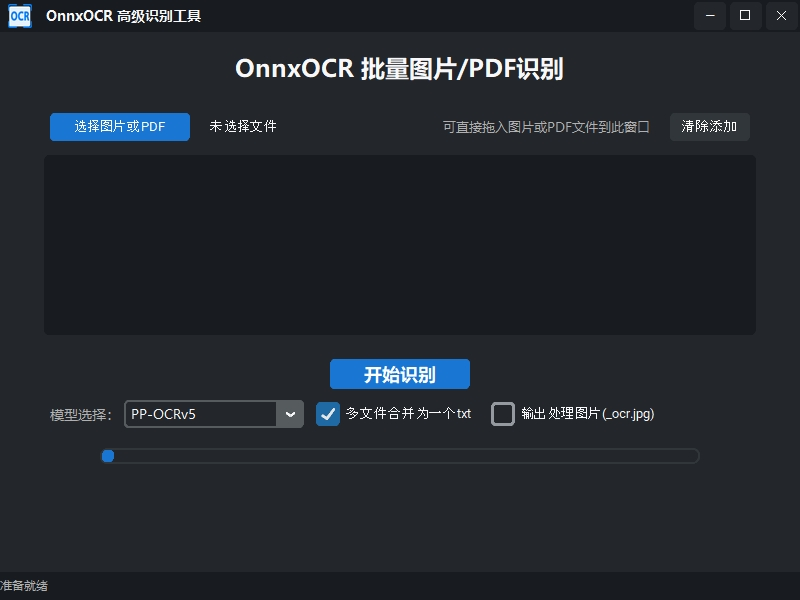
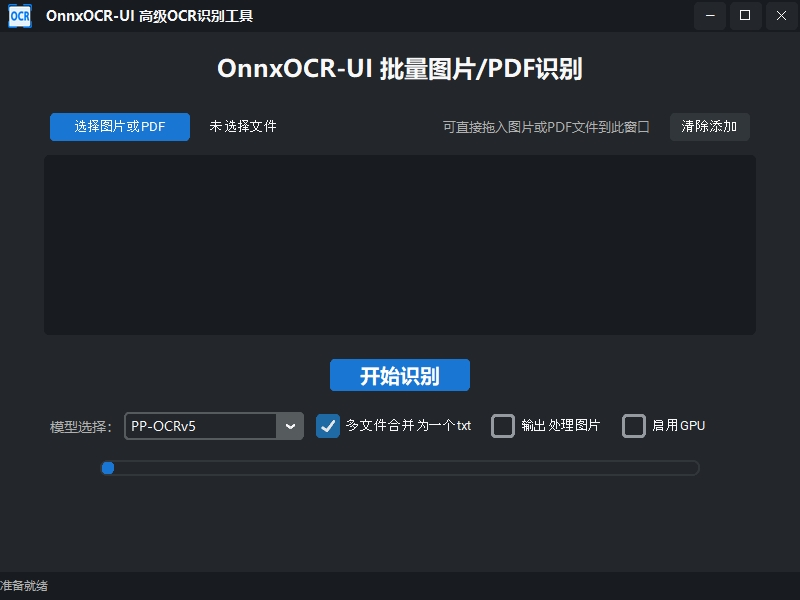
v0.2.0 优化OCR速度

diff --git a/onnxocr_ui/ui.py b/onnxocr_ui/ui.py
@@ -115,8 +115,8 @@ class OCRApp:
         self.file_listbox.configure(state="disabled")
 
         # 识别按钮（选项上方）
-        self.ocr_btn = ctk.CTkButton(self.root, text="开始识别", command=self.start_ocr, fg_color="#1976d2", hover_color="#1565c0", font=("微软雅黑", 18, "bold"), text_color="#fff")
-        self.ocr_btn.pack(pady=(20, 10))
+        self.ocr_btn = ctk.CTkButton(self.root, text="开始识别", command=self.start_ocr, fg_color="#1976d2", hover_color="#1565c0", font=("微软雅黑", 20, "bold"), text_color="#fff")
+        self.ocr_btn.pack(pady=(20, 20))
 
         # 选项（识别按钮上方）
         self.options_frame = ctk.CTkFrame(self.root, fg_color="#23272b", corner_radius=8)
@@ -132,13 +132,17 @@ class OCRApp:
         self.merge_txt_cb = ctk.CTkCheckBox(self.options_frame, text="多文件合并为一个txt", variable=self.merge_txt_var, text_color="#f8f8fa", bg_color="#23272b")
         self.merge_txt_cb.pack(side="left", padx=10)
         self.output_img_var = tk.BooleanVar(value=False)
-        self.output_img_cb = ctk.CTkCheckBox(self.options_frame, text="输出处理图片(_ocr.jpg)", variable=self.output_img_var, text_color="#f8f8fa", bg_color="#23272b")
+        self.output_img_cb = ctk.CTkCheckBox(self.options_frame, text="输出处理图片", variable=self.output_img_var, text_color="#f8f8fa", bg_color="#23272b")
         self.output_img_cb.pack(side="left", padx=10)
+        # 启用GPU选项，放到输出处理图片右侧
+        self.gpu_var = tk.BooleanVar(value=False)
+        self.gpu_cb = ctk.CTkCheckBox(self.options_frame, text="启用GPU", variable=self.gpu_var, text_color="#f8f8fa", bg_color="#23272b")
+        self.gpu_cb.pack(side="left", padx=10)
 
         # 进度条（选项栏下方）
         self.progress_var = tk.DoubleVar(value=0)
         self.progress_bar = ctk.CTkProgressBar(self.root, variable=self.progress_var, width=600, height=16, fg_color="#23272b", progress_color="#1976d2", border_color="#31363b", border_width=2)
-        self.progress_bar.pack(pady=(0, 10))
+        self.progress_bar.pack(pady=(0, 20))
         self.progress_bar.set(0)
 
         # 状态栏（始终最底部，单独用pack(side='bottom')，不要被其他控件挤上去）
@@ -193,26 +197,23 @@ class OCRApp:
         self.progress_var.set(0)  # 进度条重置为0
         model_name = self.model_var.get()
         output_img = self.output_img_var.get()
-        threading.Thread(target=self._run_ocr, args=(model_name, output_img), daemon=True).start()
+        use_gpu = self.gpu_var.get()  # 新增
+        threading.Thread(target=self._run_ocr, args=(model_name, output_img, use_gpu), daemon=True).start()
 
-    def _run_ocr(self, model_name, output_img):
+    def _run_ocr(self, model_name, output_img, use_gpu):
         def file_time_callback(idx, seconds):
             self.update_file_process_time(idx, seconds)
         def pdf_progress_callback(done, total):
             if self.selected_files:
-                # 只处理当前PDF，进度条按总任务+PDF页数分配
                 pdf_idx = self.selected_files.index(self.current_pdf) if hasattr(self, 'current_pdf') else 0
                 total_files = len(self.selected_files)
-                # PDF页数进度占当前文件的进度区间
                 base = pdf_idx / total_files
                 step = 1 / total_files
                 self.progress_var.set(base + step * (done / total))
         try:
-            self.logic.set_model(model_name)
-            # 传递pdf_progress_callback
+            self.logic.set_model(model_name, use_gpu=use_gpu)  # 修正：传递use_gpu参数
             def run_with_pdf_progress(*args, **kwargs):
                 return self.logic.run(*args, pdf_progress_callback=pdf_progress_callback, **kwargs)
-            # 标记当前处理PDF
             for f in self.selected_files:
                 if f.lower().endswith('.pdf'):
                     self.current_pdf = f

diff --git a/onnxocr_ui/logic.py b/onnxocr_ui/logic.py
@@ -209,11 +209,13 @@ class OCRLogic:
         os.makedirs(out_dir, exist_ok=True)
         return out_dir
 
-    def set_model(self, model_name):
+    def set_model(self, model_name, use_gpu=False):
         """
         切换OCR模型，支持多模型热切换，所有模型统一用ppocrv5字典
+        use_gpu: 是否启用GPU
         """
         import os
+        import tkinter.messagebox as messagebox
         base_model_dir = os.path.abspath(os.path.join(os.path.dirname(__file__), "..", "onnxocr", "models"))
         model_map = {
             "PP-OCRv5": "ppocrv5",
@@ -224,16 +226,39 @@ class OCRLogic:
         model_path = os.path.join(base_model_dir, model_dir)
         det_model_dir = os.path.join(model_path, "det", "det.onnx")
         cls_model_dir = os.path.join(model_path, "cls", "cls.onnx")
-        # 所有模型统一使用ppocrv5/ppocrv5_dict.txt
         rec_char_dict_path = os.path.join(base_model_dir, "ppocrv5", "ppocrv5_dict.txt")
         rec_model_dir = os.path.join(model_path, "rec", "rec.onnx") if os.path.exists(os.path.join(model_path, "rec", "rec.onnx")) else None
         ocr_kwargs = dict(
             use_angle_cls=True,
-            use_gpu=False,
+            use_gpu=use_gpu,  # 关键：传递GPU参数
             det_model_dir=det_model_dir,
             cls_model_dir=cls_model_dir,
             rec_char_dict_path=rec_char_dict_path
         )
         if rec_model_dir and os.path.exists(rec_model_dir):
             ocr_kwargs["rec_model_dir"] = rec_model_dir
-        self.model = ONNXPaddleOcr(**ocr_kwargs)
+        try:
+            self.model = ONNXPaddleOcr(**ocr_kwargs)
+            if use_gpu:
+                try:
+                    import onnxruntime as ort
+                    providers = self.model.session.get_providers() if hasattr(self.model, 'session') else []
+                    if not any('CUDA' in p for p in providers):
+                        msg = ("未检测到可用GPU，已自动切换为CPU推理。\n如需使用GPU，请确保已正确安装CUDA和cuDNN，并将其加入PATH环境变量。\n详细要求请参考：https://onnxruntime.ai/docs/execution-providers/CUDA-ExecutionProvider.html#requirements")
+                        messagebox.showwarning("未检测到可用GPU", msg)
+                        if hasattr(self, 'status_callback'):
+                            self.status_callback("[警告] 未检测到可用GPU，已切换为CPU推理。请检查CUDA/cuDNN环境配置。")
+                except Exception:
+                    msg = ("检测GPU状态时发生异常，可能未正确安装CUDA/cuDNN或onnxruntime-gpu。\n已自动切换为CPU推理。\n请参考：https://onnxruntime.ai/docs/execution-providers/CUDA-ExecutionProvider.html#requirements")
+                    messagebox.showwarning("GPU检测失败", msg)
+                    if hasattr(self, 'status_callback'):
+                        self.status_callback("[警告] GPU检测异常，已切换为CPU推理。请检查CUDA/cuDNN环境配置。")
+        except Exception as e:
+            if use_gpu:
+                messagebox.showwarning("GPU初始化失败", f"GPU初始化失败，已自动切换为CPU。\n如需使用GPU，请确保已正确安装CUDA和cuDNN。\n错误信息: {e}")
+                if hasattr(self, 'status_callback'):
+                    self.status_callback("[警告] GPU初始化失败，已切换为CPU推理。请检查CUDA/cuDNN环境配置。")
+                ocr_kwargs["use_gpu"] = False
+                self.model = ONNXPaddleOcr(**ocr_kwargs)
+            else:
+                raise

diff --git a/app-service.py b/app-service.py
@@ -1,0 +1,73 @@
+import cv2
+import time
+import base64
+import numpy as np
+from flask import Flask, request, jsonify
+from onnxocr.onnx_paddleocr import ONNXPaddleOcr, sav2Img
+
+# 初始化 Flask 应用
+app = Flask(__name__)
+
+# 初始化 OCR 模型
+model = ONNXPaddleOcr(use_angle_cls=True, use_gpu=False)
+
+
+@app.route('/ocr', methods=['POST'])
+def ocr_service():
+    try:
+        # 获取请求数据
+        data = request.get_json()
+        if not data or "image" not in data:
+            return jsonify({"error": "Invalid request, 'image' field is required."}), 400
+
+        # 解码 base64 图像
+        image_base64 = data["image"]
+        try:
+            image_bytes = base64.b64decode(image_base64)
+            image_np = np.frombuffer(image_bytes, dtype=np.uint8)
+            img = cv2.imdecode(image_np, cv2.IMREAD_COLOR)
+            if img is None:
+                return jsonify({"error": "Failed to decode image from base64."}), 400
+        except Exception as e:
+            return jsonify({"error": f"Image decoding failed: {str(e)}"}), 400
+
+        # 执行 OCR
+        start_time = time.time()
+        result = model.ocr(img)
+        end_time = time.time()
+        processing_time = end_time - start_time
+
+        # 保存结果图像（可选）
+        # sav2Img(img, result)
+        # print(result)
+
+        # 格式化结果
+        ocr_results = []
+        for line in result[0]:
+            # 确保 line[0] 是 NumPy 数组或列表
+            if isinstance(line[0], (list, np.ndarray)):
+                # 将 bounding_box 转换为 [[x1, y1], [x2, y2], [x3, y3], [x4, y4]] 格式
+                bounding_box = np.array(line[0]).reshape(4, 2).tolist()  # 转换为 4x2 列表
+            else:
+                bounding_box = []
+
+            ocr_results.append({
+                "text": line[1][0],  # 识别文本
+                "confidence": float(line[1][1]),  # 置信度
+                "bounding_box": bounding_box  # 文本框坐标
+            })
+
+        # 返回结果
+        return jsonify({
+            "processing_time": processing_time,
+            "results": ocr_results
+        })
+
+    except Exception as e:
+        # 捕获所有异常并返回错误信息
+        return jsonify({"error": f"An error occurred: {str(e)}"}), 500
+
+
+if __name__ == '__main__':
+    # 启动 Flask 服务
+    app.run(host="0.0.0.0", port=5005, debug=False)

diff --git a/test_ocr.py b/test_ocr.py
@@ -1,0 +1,21 @@
+import cv2
+import time
+from onnxocr.onnx_paddleocr import ONNXPaddleOcr,sav2Img
+import sys
+import time
+#固定到onnx路径·
+# sys.path.append('./paddle_to_onnx/onnx')
+
+model = ONNXPaddleOcr(use_angle_cls=True, use_gpu=False)
+
+
+img = cv2.imread('./onnxocr/test_images/715873facf064583b44ef28295126fa7.jpg')
+s = time.time()
+result = model.ocr(img)
+e = time.time()
+print("total time: {:.3f}".format(e - s))
+print("result:", result)
+for box in result[0]:
+    print(box)
+
+sav2Img(img, result,name=str(time.time())+'.jpg')

diff --git a/docs/ChangeLogs.md b/docs/ChangeLogs.md
@@ -3,6 +3,11 @@
 ## TODO
 - 使用AI对文本进行优化处理。
 
+## v0.2.0  (2025-06-14)
+
+- 优化OcR速度,增加多线程处理图片和PDF文件。
+- 增加GPU处理选项，如机器不符合GPU要求，给出提示，并自动奇幻CPU模式运行。
+
 ## v0.1.0  (2025-06-14)
 - 新增模型选择下拉框，支持PP-OCRv5、PP-OCRv4、ch_ppocr_server_v2.0，默认PP-OCRv5，UI美化并与合并选项同行。
 - 新增“输出处理图片(_ocr.jpg)”选项，用户可灵活选择是否输出识别结果图片。
